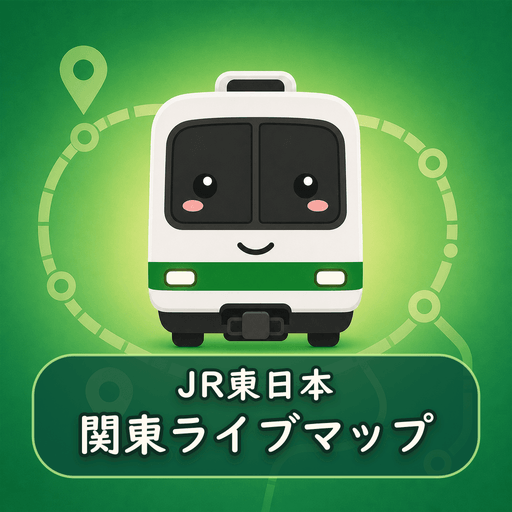
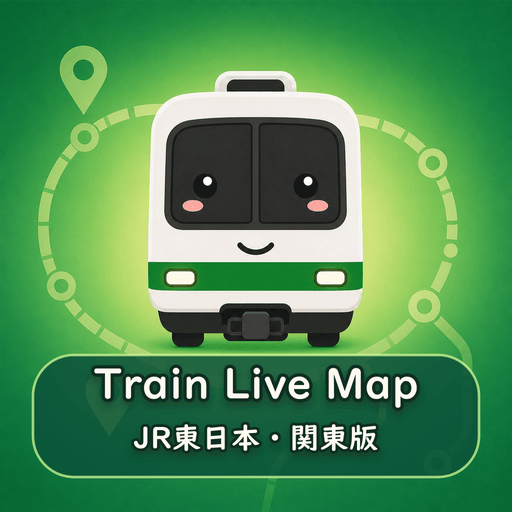
Rename app to Train Live Map JR East Kanto

Changed region(s): [[0.125, 0.6875, 0.875, 0.9062]]

diff --git a/src/app/layout.tsx b/src/app/layout.tsx
@@ -4,7 +4,7 @@ import Script from "next/script";
 import { adsenseClientId } from "@/lib/adsense";
 import "./globals.css";
 
-const title = "JR東日本 関東ライブマップ｜関東の列車位置・運行情報";
+const title = "Train Live Map｜JR東日本・関東版";
 const description =
   "JR東日本の関東エリアを走る在来線の列車位置と運行状況を地図上で確認できる非公式Webアプリ。";
 
@@ -17,16 +17,19 @@ export async function generateMetadata(): Promise<Metadata> {
       ? "http"
       : "https");
   const origin = host ? `${protocol}://${host}` : "http://127.0.0.1:3000";
-  const imageUrl = new URL("/og.png", origin).toString();
+  const imageUrl = new URL(
+    "/og-train-live-map-jr-east-kanto.png",
+    origin,
+  ).toString();
 
   return {
     title,
     description,
-    applicationName: "JR東日本 関東ライブマップ",
+    applicationName: "Train Live Map｜JR東日本・関東版",
     manifest: "/manifest.webmanifest",
     appleWebApp: {
       capable: true,
-      title: "JR関東マップ",
+      title: "Train Live Map",
       statusBarStyle: "black-translucent",
     },
     formatDetection: {
@@ -44,7 +47,7 @@ export async function generateMetadata(): Promise<Metadata> {
           url: imageUrl,
           width: 1732,
           height: 907,
-          alt: "JR東日本 関東ライブマップ — 非公式アプリ",
+          alt: "Train Live Map — JR東日本・関東版の非公式アプリ",
         },
       ],
     },

diff --git a/src/app/manifest.ts b/src/app/manifest.ts
@@ -2,8 +2,8 @@ import type { MetadataRoute } from "next";
 
 export default function manifest(): MetadataRoute.Manifest {
   return {
-    name: "JR東日本 関東ライブマップ",
-    short_name: "JR関東マップ",
+    name: "Train Live Map｜JR東日本・関東版",
+    short_name: "Train Live Map",
     description:
       "JR東日本の関東エリアを走る在来線の列車位置と運行状況を地図上で確認できる非公式Webアプリ。",
     start_url: "/",
@@ -16,19 +16,19 @@ export default function manifest(): MetadataRoute.Manifest {
     lang: "ja",
     icons: [
       {
-        src: "/icons/jr-east-kanto-live-map-192.png",
+        src: "/icons/train-live-map-jr-east-kanto-192.png",
         sizes: "192x192",
         type: "image/png",
         purpose: "any",
       },
       {
-        src: "/icons/jr-east-kanto-live-map-512.png",
+        src: "/icons/train-live-map-jr-east-kanto-512.png",
         sizes: "512x512",
         type: "image/png",
         purpose: "any",
       },
       {
-        src: "/icons/jr-east-kanto-live-map-512.png",
+        src: "/icons/train-live-map-jr-east-kanto-512.png",
         sizes: "512x512",
         type: "image/png",
         purpose: "maskable",

diff --git a/src/components/BrowserGuidance.tsx b/src/components/BrowserGuidance.tsx
@@ -146,7 +146,7 @@ export function BrowserGuidance({
           <div className="p-5">
             <div className="flex items-start gap-3">
               <Image
-                src="/icons/jr-east-kanto-live-map-192.png"
+                src="/icons/train-live-map-jr-east-kanto-192.png"
                 alt=""
                 width={48}
                 height={48}
@@ -155,7 +155,7 @@ export function BrowserGuidance({
               />
               <div className="min-w-0 flex-1">
                 <p className="text-xs font-semibold tracking-[0.02em] text-orange-200">
-                  JR東日本 関東ライブマップ
+                  Train Live Map｜JR東日本・関東版
                 </p>
                 <h2
                   id="x-browser-guidance-title"
@@ -204,7 +204,7 @@ export function BrowserGuidance({
           >
             <div className="flex items-start gap-3">
               <Image
-                src="/icons/jr-east-kanto-live-map-192.png"
+                src="/icons/train-live-map-jr-east-kanto-192.png"
                 alt=""
                 width={44}
                 height={44}

diff --git a/src/components/AppHeader.tsx b/src/components/AppHeader.tsx
@@ -21,7 +21,7 @@ export function AppHeader({
       <div className="flex items-center justify-between gap-2">
         <div className="flex items-center gap-2">
           <Image
-            src="/icons/jr-east-kanto-live-map-192.png"
+            src="/icons/train-live-map-jr-east-kanto-192.png"
             alt=""
             width={32}
             height={32}
@@ -30,10 +30,10 @@ export function AppHeader({
           />
           <div className="leading-tight">
             <h1 className="text-[0.95rem] font-bold tracking-[-0.015em] text-rail-text">
-              JR東日本
+              Train Live Map
             </h1>
             <p className="text-[0.6875rem] font-medium tracking-[0.015em] text-rail-muted">
-              関東ライブマップ・非公式
+              JR東日本・関東版（非公式）
             </p>
           </div>
         </div>

diff --git a/src/server/pushNotifier.ts b/src/server/pushNotifier.ts
@@ -86,8 +86,8 @@ export async function maybeSendSuspensionSpikeNotification({
   const payload = JSON.stringify({
     title: `${lineName}で運転見合わせの可能性`,
     body: `直近5分に利用者から${spike.recentSuspended}件の見合わせ報告がありました。公式情報をご確認ください。`,
-    icon: "/icons/jr-east-kanto-live-map-192.png",
-    badge: "/icons/jr-east-kanto-live-map-192.png",
+    icon: "/icons/train-live-map-jr-east-kanto-192.png",
+    badge: "/icons/train-live-map-jr-east-kanto-192.png",
     url: "/",
     tag: `community-suspension-${lineId}`,
     lineId,

diff --git a/public/sw.js b/public/sw.js
@@ -25,8 +25,8 @@ self.addEventListener("push", (event) => {
       typeof data.body === "string"
         ? data.body
         : "利用者から見合わせ報告が増えています。公式情報をご確認ください。",
-    icon: data.icon || "/icons/jr-east-kanto-live-map-192.png",
-    badge: data.badge || "/icons/jr-east-kanto-live-map-192.png",
+    icon: data.icon || "/icons/train-live-map-jr-east-kanto-192.png",
+    badge: data.badge || "/icons/train-live-map-jr-east-kanto-192.png",
     tag: data.tag || "community-suspension",
     renotify: true,
     data: {

diff --git a/src/features/dev/DebugView.tsx b/src/features/dev/DebugView.tsx
@@ -71,7 +71,7 @@ export function DebugView() {
       <div className="mb-4 flex items-center justify-between">
         <div>
           <h1 className="text-xl font-bold">
-            JR東日本 関東ライブマップ — Debug
+            Train Live Map｜JR東日本・関東版 — Debug
           </h1>
           <p className="text-xs text-rail-muted">/dev/debug(開発時のみ)</p>
         </div>

diff --git a/README.md b/README.md
@@ -1,4 +1,4 @@
-# JR東日本 関東ライブマップ
+# Train Live Map｜JR東日本・関東版
 
 JR東日本の関東エリアを走る在来線の列車位置と運行状況を、
 地図上で確認するための非公式 Web アプリです。
